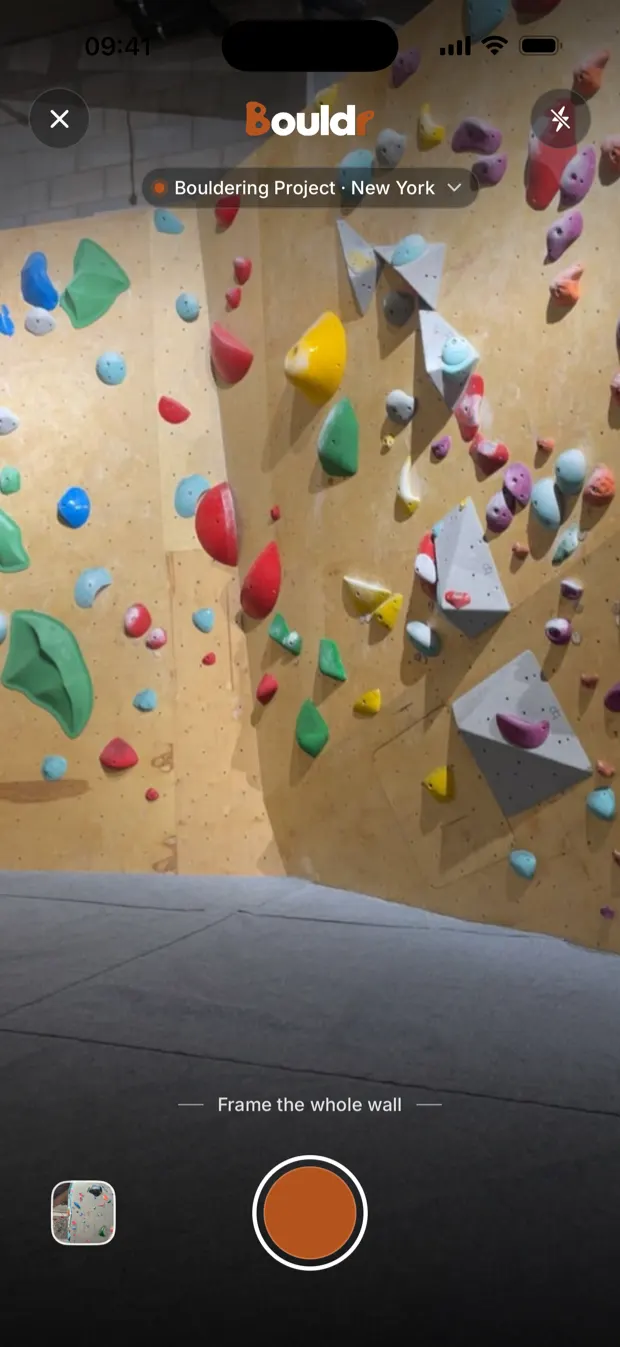
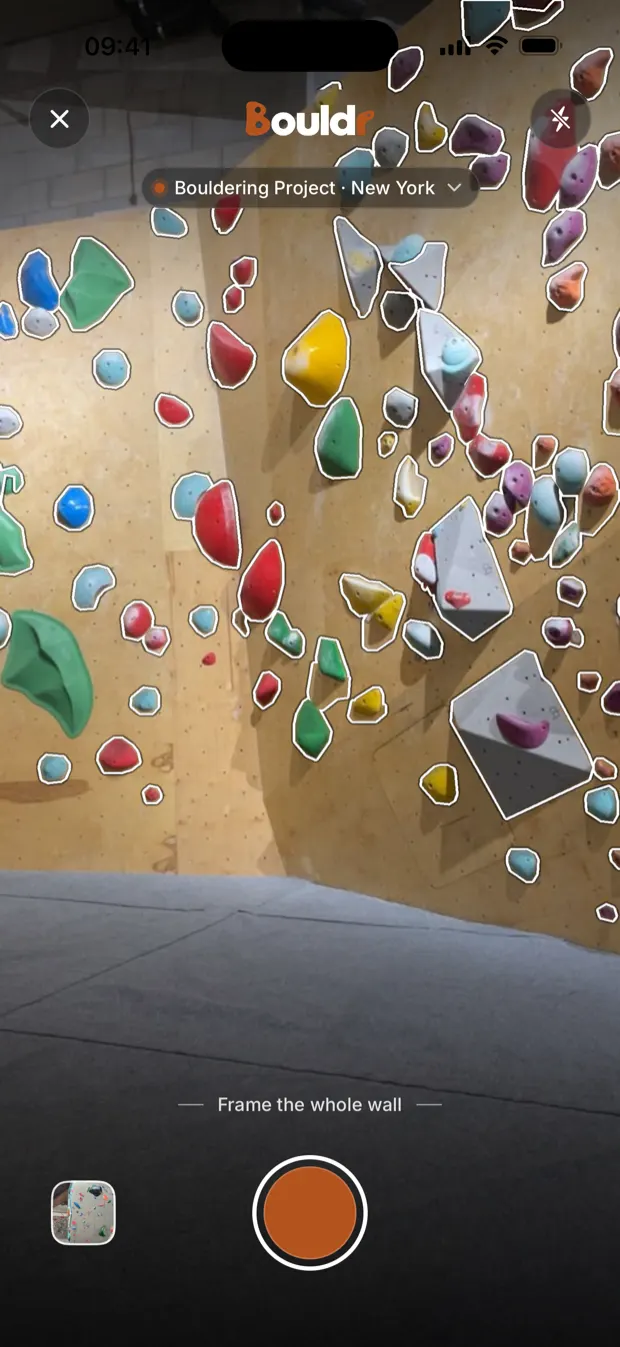
Page Bouldr : l'étape « Touche une prise » part, le scan montre toutes les prises détourées, les forces et faiblesses entrent en étape 7

diff --git a/bouldr/index.html b/bouldr/index.html
@@ -104,37 +104,37 @@
                     <li data-etape="0">
                         <span class="parcours-num" data-i18n="etape1.num">Étape 1</span>
                         <h3 data-i18n="etape1.titre">Scanne le mur.</h3>
-                        <div class="tel tel-enligne"><div class="tel-ecran"><img src="ecran-scan.webp" data-ecran="ecran-scan.webp" data-i18n-alt="etape1.alt" alt="Le viseur de Bouldr devant un mur en bois" loading="lazy" width="620" height="1347"></div><img src="iphone.webp" alt="" class="tel-cadre" aria-hidden="true" width="886" height="1851"></div>
+                        <div class="tel tel-enligne"><div class="tel-ecran"><img src="ecran-scan.webp" data-ecran="ecran-scan.webp" data-i18n-alt="etape1.alt" alt="Le viseur de Bouldr : toutes les prises du mur détourées" loading="lazy" width="620" height="1347"></div><img src="iphone.webp" alt="" class="tel-cadre" aria-hidden="true" width="886" height="1851"></div>
                     </li>
                     <li data-etape="1">
-                        <span class="parcours-num" data-i18n="etape2.num">Étape 2</span>
-                        <h3 data-i18n="etape2.titre">Touche une prise de ta voie.</h3>
-                        <div class="tel tel-enligne"><div class="tel-ecran"><img src="ecran-editeur.webp" data-ecran="ecran-editeur.webp" data-i18n-alt="etape2.alt" alt="Les prises rouges détourées sur la photo du mur" loading="lazy" width="620" height="1347"></div><img src="iphone.webp" alt="" class="tel-cadre" aria-hidden="true" width="886" height="1851"></div>
-                    </li>
-                    <li data-etape="2">
-                        <span class="parcours-num" data-i18n="etape3.num">Étape 3</span>
+                        <span class="parcours-num" data-i18n="etape3.num">Étape 2</span>
                         <h3 data-i18n="etape3.titre">Note chaque essai, prise par prise.</h3>
                         <div class="tel tel-enligne"><div class="tel-ecran"><img src="ecran-fiche.webp" data-ecran="ecran-fiche.webp" data-i18n-alt="etape3.alt" alt="La fiche d'un bloc : deux séances, cinq essais, 85 %" loading="lazy" width="620" height="1347"></div><img src="iphone.webp" alt="" class="tel-cadre" aria-hidden="true" width="886" height="1851"></div>
                     </li>
-                    <li data-etape="3">
-                        <span class="parcours-num" data-i18n="etape4.num">Étape 4</span>
+                    <li data-etape="2">
+                        <span class="parcours-num" data-i18n="etape4.num">Étape 3</span>
                         <h3 data-i18n="etape4.titre">Retrouve tes blocs, séance par séance.</h3>
                         <div class="tel tel-enligne"><div class="tel-ecran"><img src="ecran-projet.webp" data-ecran="ecran-projet.webp" data-i18n-alt="etape4.alt" alt="Projets, rangés par séance" loading="lazy" width="620" height="1347"></div><img src="iphone.webp" alt="" class="tel-cadre" aria-hidden="true" width="886" height="1851"></div>
                     </li>
-                    <li data-etape="4">
-                        <span class="parcours-num" data-i18n="etape5.num">Étape 5</span>
+                    <li data-etape="3">
+                        <span class="parcours-num" data-i18n="etape5.num">Étape 4</span>
                         <h3 data-i18n="etape5.titre">Trouve les salles autour de toi.</h3>
                         <div class="tel tel-enligne"><div class="tel-ecran"><img src="ecran-salles.webp" data-ecran="ecran-salles.webp" data-i18n-alt="etape5.alt" alt="La carte des salles" loading="lazy" width="620" height="1347"></div><img src="iphone.webp" alt="" class="tel-cadre" aria-hidden="true" width="886" height="1851"></div>
                     </li>
-                    <li data-etape="5">
-                        <span class="parcours-num" data-i18n="etape6.num">Étape 6</span>
+                    <li data-etape="4">
+                        <span class="parcours-num" data-i18n="etape6.num">Étape 5</span>
                         <h3 data-i18n="etape6.titre">Compare-toi aux grimpeurs de ta salle.</h3>
                         <div class="tel tel-enligne"><div class="tel-ecran"><img src="ecran-classement.webp" data-ecran="ecran-classement.webp" data-i18n-alt="etape6.alt" alt="Le classement d'une salle" loading="lazy" width="620" height="1347"></div><img src="iphone.webp" alt="" class="tel-cadre" aria-hidden="true" width="886" height="1851"></div>
                     </li>
-                    <li data-etape="6">
-                        <span class="parcours-num" data-i18n="etape7.num">Étape 7</span>
+                    <li data-etape="5">
+                        <span class="parcours-num" data-i18n="etape7.num">Étape 6</span>
                         <h3 data-i18n="etape7.titre">Analyse ta progression.</h3>
                         <div class="tel tel-enligne"><div class="tel-ecran"><img src="ecran-profil.webp" data-ecran="ecran-profil.webp" data-i18n-alt="etape7.alt" alt="Le Profil : seize tops, quatre flashs, trois séances" loading="lazy" width="620" height="1347"></div><img src="iphone.webp" alt="" class="tel-cadre" aria-hidden="true" width="886" height="1851"></div>
+                    </li>
+                    <li data-etape="6">
+                        <span class="parcours-num" data-i18n="etape8.num">Étape 7</span>
+                        <h3 data-i18n="etape8.titre">Repère tes forces et tes faiblesses.</h3>
+                        <div class="tel tel-enligne"><div class="tel-ecran"><img src="ecran-styles.webp" data-ecran="ecran-styles.webp" data-i18n-alt="etape8.alt" alt="Ton style : la rosace de tes blocs, puis tes forces et faiblesses, du vertical au rétablissement" loading="lazy" width="620" height="1347"></div><img src="iphone.webp" alt="" class="tel-cadre" aria-hidden="true" width="886" height="1851"></div>
                     </li>
                 </ol>
                 <div class="parcours-nav">

diff --git a/bouldr/i18n.js b/bouldr/i18n.js
@@ -23,25 +23,25 @@ const I18N = {
     "comment.titre": "Du mur à ta progression.",
     "etape1.num": "Étape 1",
     "etape1.titre": "Scanne le mur.",
-    "etape1.alt": "Le viseur de Bouldr devant un mur en bois",
-    "etape2.num": "Étape 2",
-    "etape2.titre": "Touche une prise de ta voie.",
-    "etape2.alt": "Les prises rouges détourées sur la photo du mur",
-    "etape3.num": "Étape 3",
+    "etape1.alt": "Le viseur de Bouldr : toutes les prises du mur détourées",
+    "etape3.num": "Étape 2",
     "etape3.titre": "Note chaque essai, prise par prise.",
     "etape3.alt": "La fiche d'un bloc : deux séances, cinq essais, 85 %",
-    "etape4.num": "Étape 4",
+    "etape4.num": "Étape 3",
     "etape4.titre": "Retrouve tes blocs, séance par séance.",
     "etape4.alt": "Projets, rangés par séance",
-    "etape5.num": "Étape 5",
+    "etape5.num": "Étape 4",
     "etape5.titre": "Trouve les salles autour de toi.",
     "etape5.alt": "La carte des salles",
-    "etape6.num": "Étape 6",
+    "etape6.num": "Étape 5",
     "etape6.titre": "Compare-toi aux grimpeurs de ta salle.",
     "etape6.alt": "Le classement d'une salle",
-    "etape7.num": "Étape 7",
+    "etape7.num": "Étape 6",
     "etape7.titre": "Analyse ta progression.",
     "etape7.alt": "Le Profil : seize tops, quatre flashs, trois séances",
+    "etape8.num": "Étape 7",
+    "etape8.titre": "Repère tes forces et tes faiblesses.",
+    "etape8.alt": "Ton style : la rosace de tes blocs, puis tes forces et faiblesses, du vertical au rétablissement",
     "cta.titre": "Disponible sur iPhone et Android.",
     "cta.android": "Ton carnet de bloc, sur l'App Store et Google Play.",
     "support.sur": "Support",
@@ -74,25 +74,25 @@ const I18N = {
     "comment.titre": "From the wall to your progress.",
     "etape1.num": "Step 1",
     "etape1.titre": "Scan the wall.",
-    "etape1.alt": "Bouldr's viewfinder in front of a wooden wall",
-    "etape2.num": "Step 2",
-    "etape2.titre": "Tap one hold of your route.",
-    "etape2.alt": "The red holds outlined on the photo of the wall",
-    "etape3.num": "Step 3",
+    "etape1.alt": "Bouldr's viewfinder: every hold on the wall outlined",
+    "etape3.num": "Step 2",
     "etape3.titre": "Log every attempt, hold by hold.",
     "etape3.alt": "A boulder's page: two sessions, five attempts, 85%",
-    "etape4.num": "Step 4",
+    "etape4.num": "Step 3",
     "etape4.titre": "Find your boulders, session by session.",
     "etape4.alt": "Projects, grouped by session",
-    "etape5.num": "Step 5",
+    "etape5.num": "Step 4",
     "etape5.titre": "Find the gyms around you.",
     "etape5.alt": "The gym map",
-    "etape6.num": "Step 6",
+    "etape6.num": "Step 5",
     "etape6.titre": "See how you rank in your gym.",
     "etape6.alt": "A gym's leaderboard",
-    "etape7.num": "Step 7",
+    "etape7.num": "Step 6",
     "etape7.titre": "Analyse your progress.",
     "etape7.alt": "The Profile: sixteen tops, four flashes, three sessions",
+    "etape8.num": "Step 7",
+    "etape8.titre": "Spot your strengths and weaknesses.",
+    "etape8.alt": "Your style: the wheel of your boulders, then your strengths and weaknesses, from vertical to mantle",
     "cta.titre": "Available on iPhone and Android.",
     "cta.android": "Your bouldering logbook, on the App Store and Google Play.",
     "support.sur": "Support",
